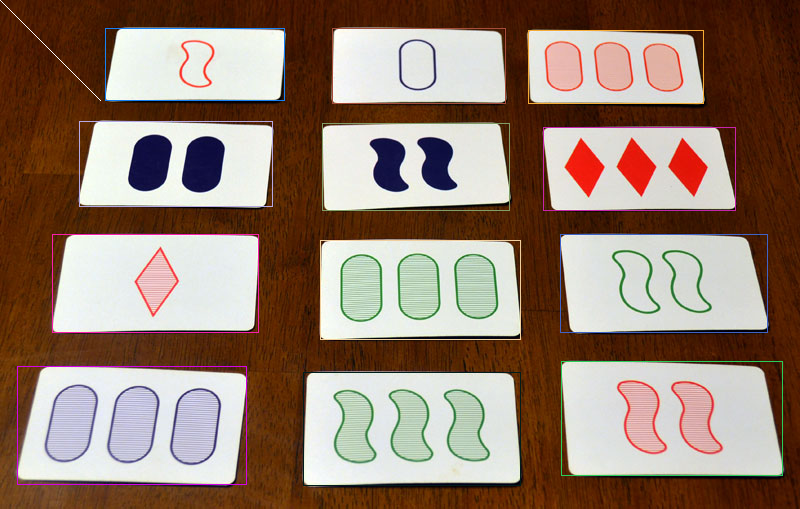
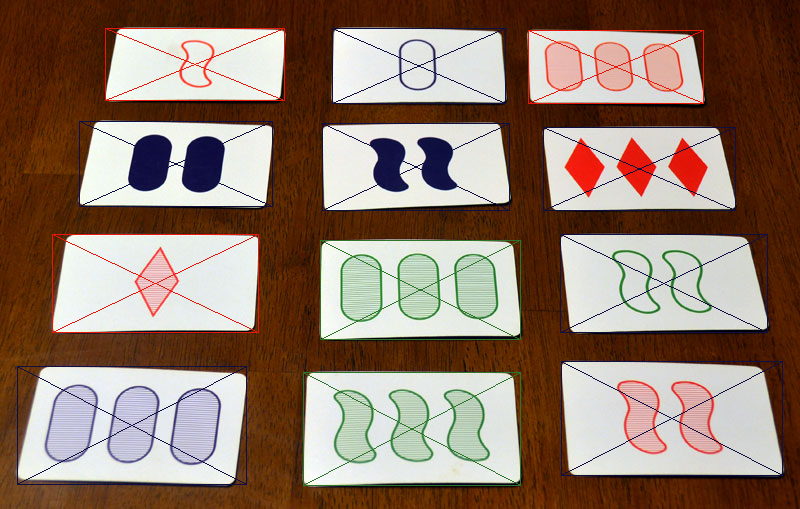
draw lines over cards in detected color color detection algo- still not great

diff --git a/Card.java b/Card.java
@@ -1,0 +1,53 @@
+
+
+public class Card {
+    // values from lightest and darkest color on set card using gimp
+    private static final int[] REDS = new int[]{0xe7b6af, 0xe7170a};
+    private static final int[] GREENS = new int[]{0xbfd7bf, 0x2d752b};
+    private static final int[] BLUES = new int[]{0xc3c3dd, 0x0f0f41};
+
+    // values you DONT want it to be near; you want to disregard these
+    private static final int[] AWAYS = new int[]{0xffffff, 0x381100};
+
+    // if further than threshold distance away, disregard as noise
+    private static final double threshold = 0.5;
+
+    int color;
+
+    public Card(int[][] grid) {
+        int redCount = 0, greenCount = 0, blueCount = 0;
+        for (int r = 0; r < grid.length; r++) {
+            for (int c = 0; c < grid[0].length; c++) {
+                int pixel = grid[r][c];
+                double redDist = findMinDist(pixel, REDS);
+                double greenDist = findMinDist(pixel, GREENS);
+                double blueDist = findMinDist(pixel, BLUES);
+                double minAwayDist = findMinDist(pixel, AWAYS);
+
+                double minDist = Math.min(minAwayDist, Math.min(redDist, Math.min(greenDist, blueDist)));
+                if (minDist > threshold) continue;
+                else if (minDist == redDist) redCount++;
+                else if (minDist == greenDist) greenCount++;
+                else if (minDist == blueDist) blueCount++;
+            }
+        }
+        int maxCount = Math.max(redCount, Math.max(greenCount, blueCount));
+        /*
+        System.out.println(redCount);
+        System.out.println(greenCount);
+        System.out.println(blueCount);
+        */
+        if (maxCount == redCount) color = REDS[1];
+        else if (maxCount == greenCount) color = GREENS[1];
+        else if (maxCount == blueCount) color = BLUES[1];
+    }
+
+    private double findMinDist(int pixel, int[] colors) {
+        double minAwayDist = 1.1;
+        for (int col : colors) {
+            minAwayDist = Math.min(minAwayDist, Color.getDistance2(col, pixel));
+        }
+        return minAwayDist;
+    }
+
+}

diff --git a/Main.java b/Main.java
@@ -14,11 +14,14 @@ public class Main {
         System.out.println(pas.size());
         for (PixelArea pa : pas) {
             int lineColor = Color.rgb2int((int) (Math.random() * 255), (int) (Math.random() * 255), (int) (Math.random() * 255));
-            Renderer.drawLine(grid, pa.minX, pa.maxY, pa.maxX, pa.maxY, lineColor); // top line
-            Renderer.drawLine(grid, pa.maxX, pa.maxY, pa.maxX, pa.minY, lineColor); // right line
-            Renderer.drawLine(grid, pa.maxX, pa.minY, pa.minX, pa.minY, lineColor); // bottom line
-            Renderer.drawLine(grid, pa.minX, pa.minY, pa.minX, pa.maxY, lineColor); // bottom line
+            Card c = new Card(pa.pixelSquare);
+            Renderer.drawLine(grid, pa.minX, pa.maxY, pa.maxX, pa.maxY, c.color); // top line
+            Renderer.drawLine(grid, pa.maxX, pa.maxY, pa.maxX, pa.minY, c.color); // right line
+            Renderer.drawLine(grid, pa.maxX, pa.minY, pa.minX, pa.minY, c.color); // bottom line
+            Renderer.drawLine(grid, pa.minX, pa.minY, pa.minX, pa.maxY, c.color); // bottom line
             
+            Renderer.drawLine(grid, pa.minX, pa.minY, pa.maxX, pa.maxY, c.color);
+            Renderer.drawLine(grid, pa.minX, pa.maxY, pa.maxX, pa.minY, c.color);
             //for (int[] loc : pa.pixelLocations) {
             //    grid[loc[1]][loc[0]] = lineColor;
             //}
